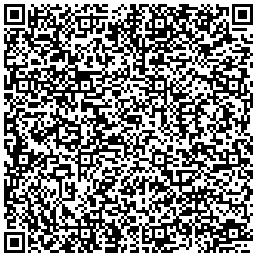
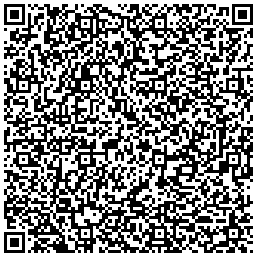
更新

diff --git a/README.md b/README.md
@@ -19,7 +19,7 @@
 | ------------- | ------------- |
 | [88影视](https://share.dagouzhi.com/#/pages/index/index?data=%7B%22type%22%3A%22app%22%2C%22name%22%3A%2288%E5%BD%B1%E8%A7%86%22%2C%22appid%22%3A%2288_movie%22%2C%22version%22%3A%220.0.27%22%2C%22appUrlConfig%22%3A%22https%3A%2F%2Fraw.githubusercontent.com%2Fhtyf-mp-community%2Fdemo%2Fmain%2F88_movie%2Fapp.json%22%2C%22zipUrl%22%3A%22https%3A%2F%2Fraw.githubusercontent.com%2Fhtyf-mp-community%2Fdemo%2Fmain%2F88_movie%2Fdist.dgz%22%7D)  | [![小程序码](./88_movie/qrcode.png)](https://share.dagouzhi.com/#/pages/index/index?data=%7B%22type%22%3A%22app%22%2C%22name%22%3A%2288%E5%BD%B1%E8%A7%86%22%2C%22appid%22%3A%2288_movie%22%2C%22version%22%3A%220.0.27%22%2C%22appUrlConfig%22%3A%22https%3A%2F%2Fraw.githubusercontent.com%2Fhtyf-mp-community%2Fdemo%2Fmain%2F88_movie%2Fapp.json%22%2C%22zipUrl%22%3A%22https%3A%2F%2Fraw.githubusercontent.com%2Fhtyf-mp-community%2Fdemo%2Fmain%2F88_movie%2Fdist.dgz%22%7D) |
 | [动漫基地](https://share.dagouzhi.com/#/pages/index/index?data=%7B%22type%22%3A%22app%22%2C%22name%22%3A%22%E5%8A%A8%E6%BC%AB%E5%9F%BA%E5%9C%B0%22%2C%22appid%22%3A%22animation_996%22%2C%22version%22%3A%220.0.27%22%2C%22appUrlConfig%22%3A%22https%3A%2F%2Fraw.githubusercontent.com%2Fhtyf-mp-community%2Fdemo%2Fmain%2Fanimation_996%2Fapp.json%22%2C%22zipUrl%22%3A%22https%3A%2F%2Fraw.githubusercontent.com%2Fhtyf-mp-community%2Fdemo%2Fmain%2Fanimation_996%2Fdist.dgz%22%7D)  | [![小程序码](./animation_996/qrcode.png)](https://share.dagouzhi.com/#/pages/index/index?data=%7B%22type%22%3A%22app%22%2C%22name%22%3A%22%E5%8A%A8%E6%BC%AB%E5%9F%BA%E5%9C%B0%22%2C%22appid%22%3A%22animation_996%22%2C%22version%22%3A%220.0.27%22%2C%22appUrlConfig%22%3A%22https%3A%2F%2Fraw.githubusercontent.com%2Fhtyf-mp-community%2Fdemo%2Fmain%2Fanimation_996%2Fapp.json%22%2C%22zipUrl%22%3A%22https%3A%2F%2Fraw.githubusercontent.com%2Fhtyf-mp-community%2Fdemo%2Fmain%2Fanimation_996%2Fdist.dgz%22%7D) |
-| [壁纸库](https://share.dagouzhi.com/#/pages/index/index?data=%7B%22type%22%3A%22app%22%2C%22name%22%3A%22%E5%A3%81%E7%BA%B8%E5%BA%93%22%2C%22appid%22%3A%22bizhihui%22%2C%22version%22%3A%220.0.28%22%2C%22appUrlConfig%22%3A%22https%3A%2F%2Fraw.githubusercontent.com%2Fhtyf-mp-community%2Fdemo%2Fmain%2Fbizhihui%2Fapp.json%22%2C%22zipUrl%22%3A%22https%3A%2F%2Fraw.githubusercontent.com%2Fhtyf-mp-community%2Fdemo%2Fmain%2Fbizhihui%2Fdist.dgz%22%7D)  | [![小程序码](./bizhihui/qrcode.png)](https://share.dagouzhi.com/#/pages/index/index?data=%7B%22type%22%3A%22app%22%2C%22name%22%3A%22%E5%A3%81%E7%BA%B8%E5%BA%93%22%2C%22appid%22%3A%22bizhihui%22%2C%22version%22%3A%220.0.28%22%2C%22appUrlConfig%22%3A%22https%3A%2F%2Fraw.githubusercontent.com%2Fhtyf-mp-community%2Fdemo%2Fmain%2Fbizhihui%2Fapp.json%22%2C%22zipUrl%22%3A%22https%3A%2F%2Fraw.githubusercontent.com%2Fhtyf-mp-community%2Fdemo%2Fmain%2Fbizhihui%2Fdist.dgz%22%7D) |
+| [壁纸库](https://share.dagouzhi.com/#/pages/index/index?data=%7B%22type%22%3A%22app%22%2C%22name%22%3A%22%E5%A3%81%E7%BA%B8%E5%BA%93%22%2C%22appid%22%3A%22bizhihui%22%2C%22version%22%3A%220.0.29%22%2C%22appUrlConfig%22%3A%22https%3A%2F%2Fraw.githubusercontent.com%2Fhtyf-mp-community%2Fdemo%2Fmain%2Fbizhihui%2Fapp.json%22%2C%22zipUrl%22%3A%22https%3A%2F%2Fraw.githubusercontent.com%2Fhtyf-mp-community%2Fdemo%2Fmain%2Fbizhihui%2Fdist.dgz%22%7D)  | [![小程序码](./bizhihui/qrcode.png)](https://share.dagouzhi.com/#/pages/index/index?data=%7B%22type%22%3A%22app%22%2C%22name%22%3A%22%E5%A3%81%E7%BA%B8%E5%BA%93%22%2C%22appid%22%3A%22bizhihui%22%2C%22version%22%3A%220.0.29%22%2C%22appUrlConfig%22%3A%22https%3A%2F%2Fraw.githubusercontent.com%2Fhtyf-mp-community%2Fdemo%2Fmain%2Fbizhihui%2Fapp.json%22%2C%22zipUrl%22%3A%22https%3A%2F%2Fraw.githubusercontent.com%2Fhtyf-mp-community%2Fdemo%2Fmain%2Fbizhihui%2Fdist.dgz%22%7D) |
 | [漫画基地](https://share.dagouzhi.com/#/pages/index/index?data=%7B%22type%22%3A%22app%22%2C%22name%22%3A%22%E6%BC%AB%E7%94%BB%E5%9F%BA%E5%9C%B0%22%2C%22appid%22%3A%22caricature_996%22%2C%22version%22%3A%220.7.5%22%2C%22appUrlConfig%22%3A%22https%3A%2F%2Fraw.githubusercontent.com%2Fhtyf-mp-community%2FMangaReader%2Fmaster%2Fdgz%2Fbuild%2Foutputs%2Fapp.json%22%2C%22zipUrl%22%3A%22https%3A%2F%2Fraw.githubusercontent.com%2Fhtyf-mp-community%2FMangaReader%2Fmaster%2Fdgz%2Fbuild%2Foutputs%2Fdist.dgz%22%7D)  | [![小程序码](./caricature_996/qrcode.png)](https://share.dagouzhi.com/#/pages/index/index?data=%7B%22type%22%3A%22app%22%2C%22name%22%3A%22%E6%BC%AB%E7%94%BB%E5%9F%BA%E5%9C%B0%22%2C%22appid%22%3A%22caricature_996%22%2C%22version%22%3A%220.7.5%22%2C%22appUrlConfig%22%3A%22https%3A%2F%2Fraw.githubusercontent.com%2Fhtyf-mp-community%2FMangaReader%2Fmaster%2Fdgz%2Fbuild%2Foutputs%2Fapp.json%22%2C%22zipUrl%22%3A%22https%3A%2F%2Fraw.githubusercontent.com%2Fhtyf-mp-community%2FMangaReader%2Fmaster%2Fdgz%2Fbuild%2Foutputs%2Fdist.dgz%22%7D) |
 | [Game模板](https://share.dagouzhi.com/#/pages/index/index?data=%7B%22type%22%3A%22game%22%2C%22name%22%3A%22Game%E6%A8%A1%E6%9D%BF%22%2C%22projectname%22%3A%22Game%E6%A8%A1%E6%9D%BF%22%2C%22appid%22%3A%22__game_temp_appid__%22%2C%22appUrlConfig%22%3A%22https%3A%2F%2Fraw.githubusercontent.com%2Fhtyf-mp-community%2Fhtyf-mp%2Fmain%2Fmini-game-template%2Fdgz%2Fbuild%2Foutputs%2Fapp.json%22%2C%22zipUrl%22%3A%22https%3A%2F%2Fraw.githubusercontent.com%2Fhtyf-mp-community%2Fhtyf-mp%2Fmain%2Fmini-game-template%2Fdgz%2Fbuild%2Foutputs%2Fdist.dgz%22%2C%22version%22%3A%223.6.0%22%7D)  | [![小程序码](./game/qrcode.png)](https://share.dagouzhi.com/#/pages/index/index?data=%7B%22type%22%3A%22game%22%2C%22name%22%3A%22Game%E6%A8%A1%E6%9D%BF%22%2C%22projectname%22%3A%22Game%E6%A8%A1%E6%9D%BF%22%2C%22appid%22%3A%22__game_temp_appid__%22%2C%22appUrlConfig%22%3A%22https%3A%2F%2Fraw.githubusercontent.com%2Fhtyf-mp-community%2Fhtyf-mp%2Fmain%2Fmini-game-template%2Fdgz%2Fbuild%2Foutputs%2Fapp.json%22%2C%22zipUrl%22%3A%22https%3A%2F%2Fraw.githubusercontent.com%2Fhtyf-mp-community%2Fhtyf-mp%2Fmain%2Fmini-game-template%2Fdgz%2Fbuild%2Foutputs%2Fdist.dgz%22%2C%22version%22%3A%223.6.0%22%7D) |
 | [短剧窝](https://share.dagouzhi.com/#/pages/index/index?data=%7B%22type%22%3A%22app%22%2C%22name%22%3A%22%E7%9F%AD%E5%89%A7%E7%AA%9D%22%2C%22appid%22%3A%22idjw%22%2C%22version%22%3A%220.0.27%22%2C%22appUrlConfig%22%3A%22https%3A%2F%2Fraw.githubusercontent.com%2Fhtyf-mp-community%2Fdemo%2Fmain%2Fidjw%2Fapp.json%22%2C%22zipUrl%22%3A%22https%3A%2F%2Fraw.githubusercontent.com%2Fhtyf-mp-community%2Fdemo%2Fmain%2Fidjw%2Fdist.dgz%22%7D)  | [![小程序码](./idjw/qrcode.png)](https://share.dagouzhi.com/#/pages/index/index?data=%7B%22type%22%3A%22app%22%2C%22name%22%3A%22%E7%9F%AD%E5%89%A7%E7%AA%9D%22%2C%22appid%22%3A%22idjw%22%2C%22version%22%3A%220.0.27%22%2C%22appUrlConfig%22%3A%22https%3A%2F%2Fraw.githubusercontent.com%2Fhtyf-mp-community%2Fdemo%2Fmain%2Fidjw%2Fapp.json%22%2C%22zipUrl%22%3A%22https%3A%2F%2Fraw.githubusercontent.com%2Fhtyf-mp-community%2Fdemo%2Fmain%2Fidjw%2Fdist.dgz%22%7D) |
